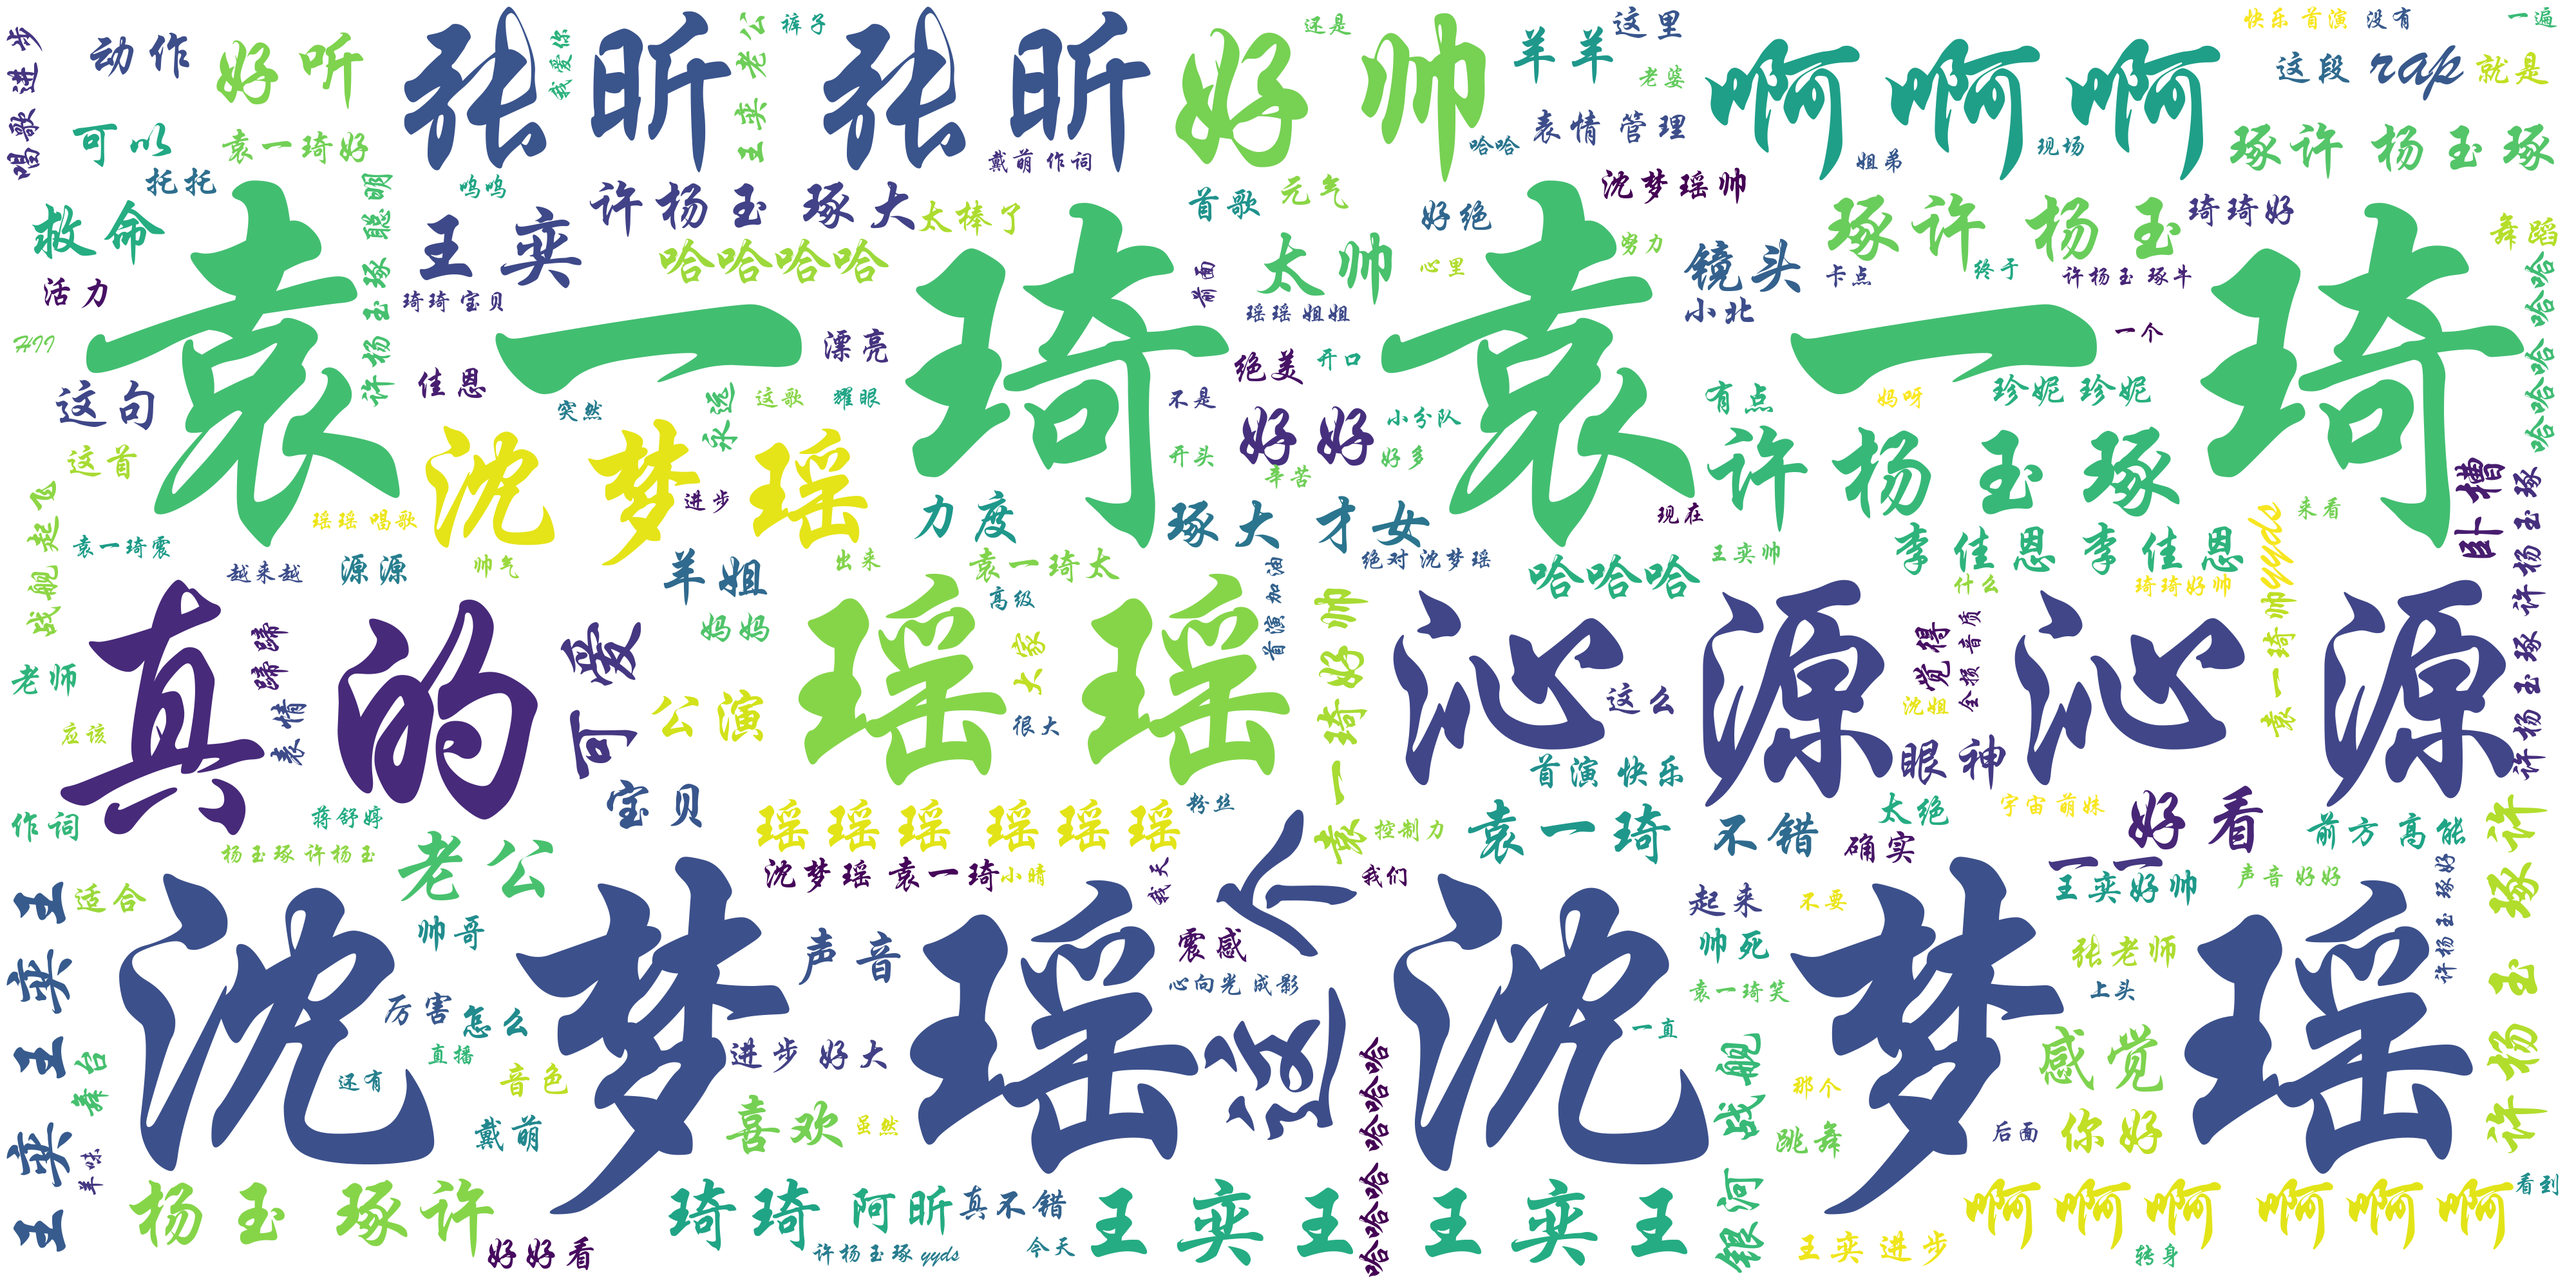
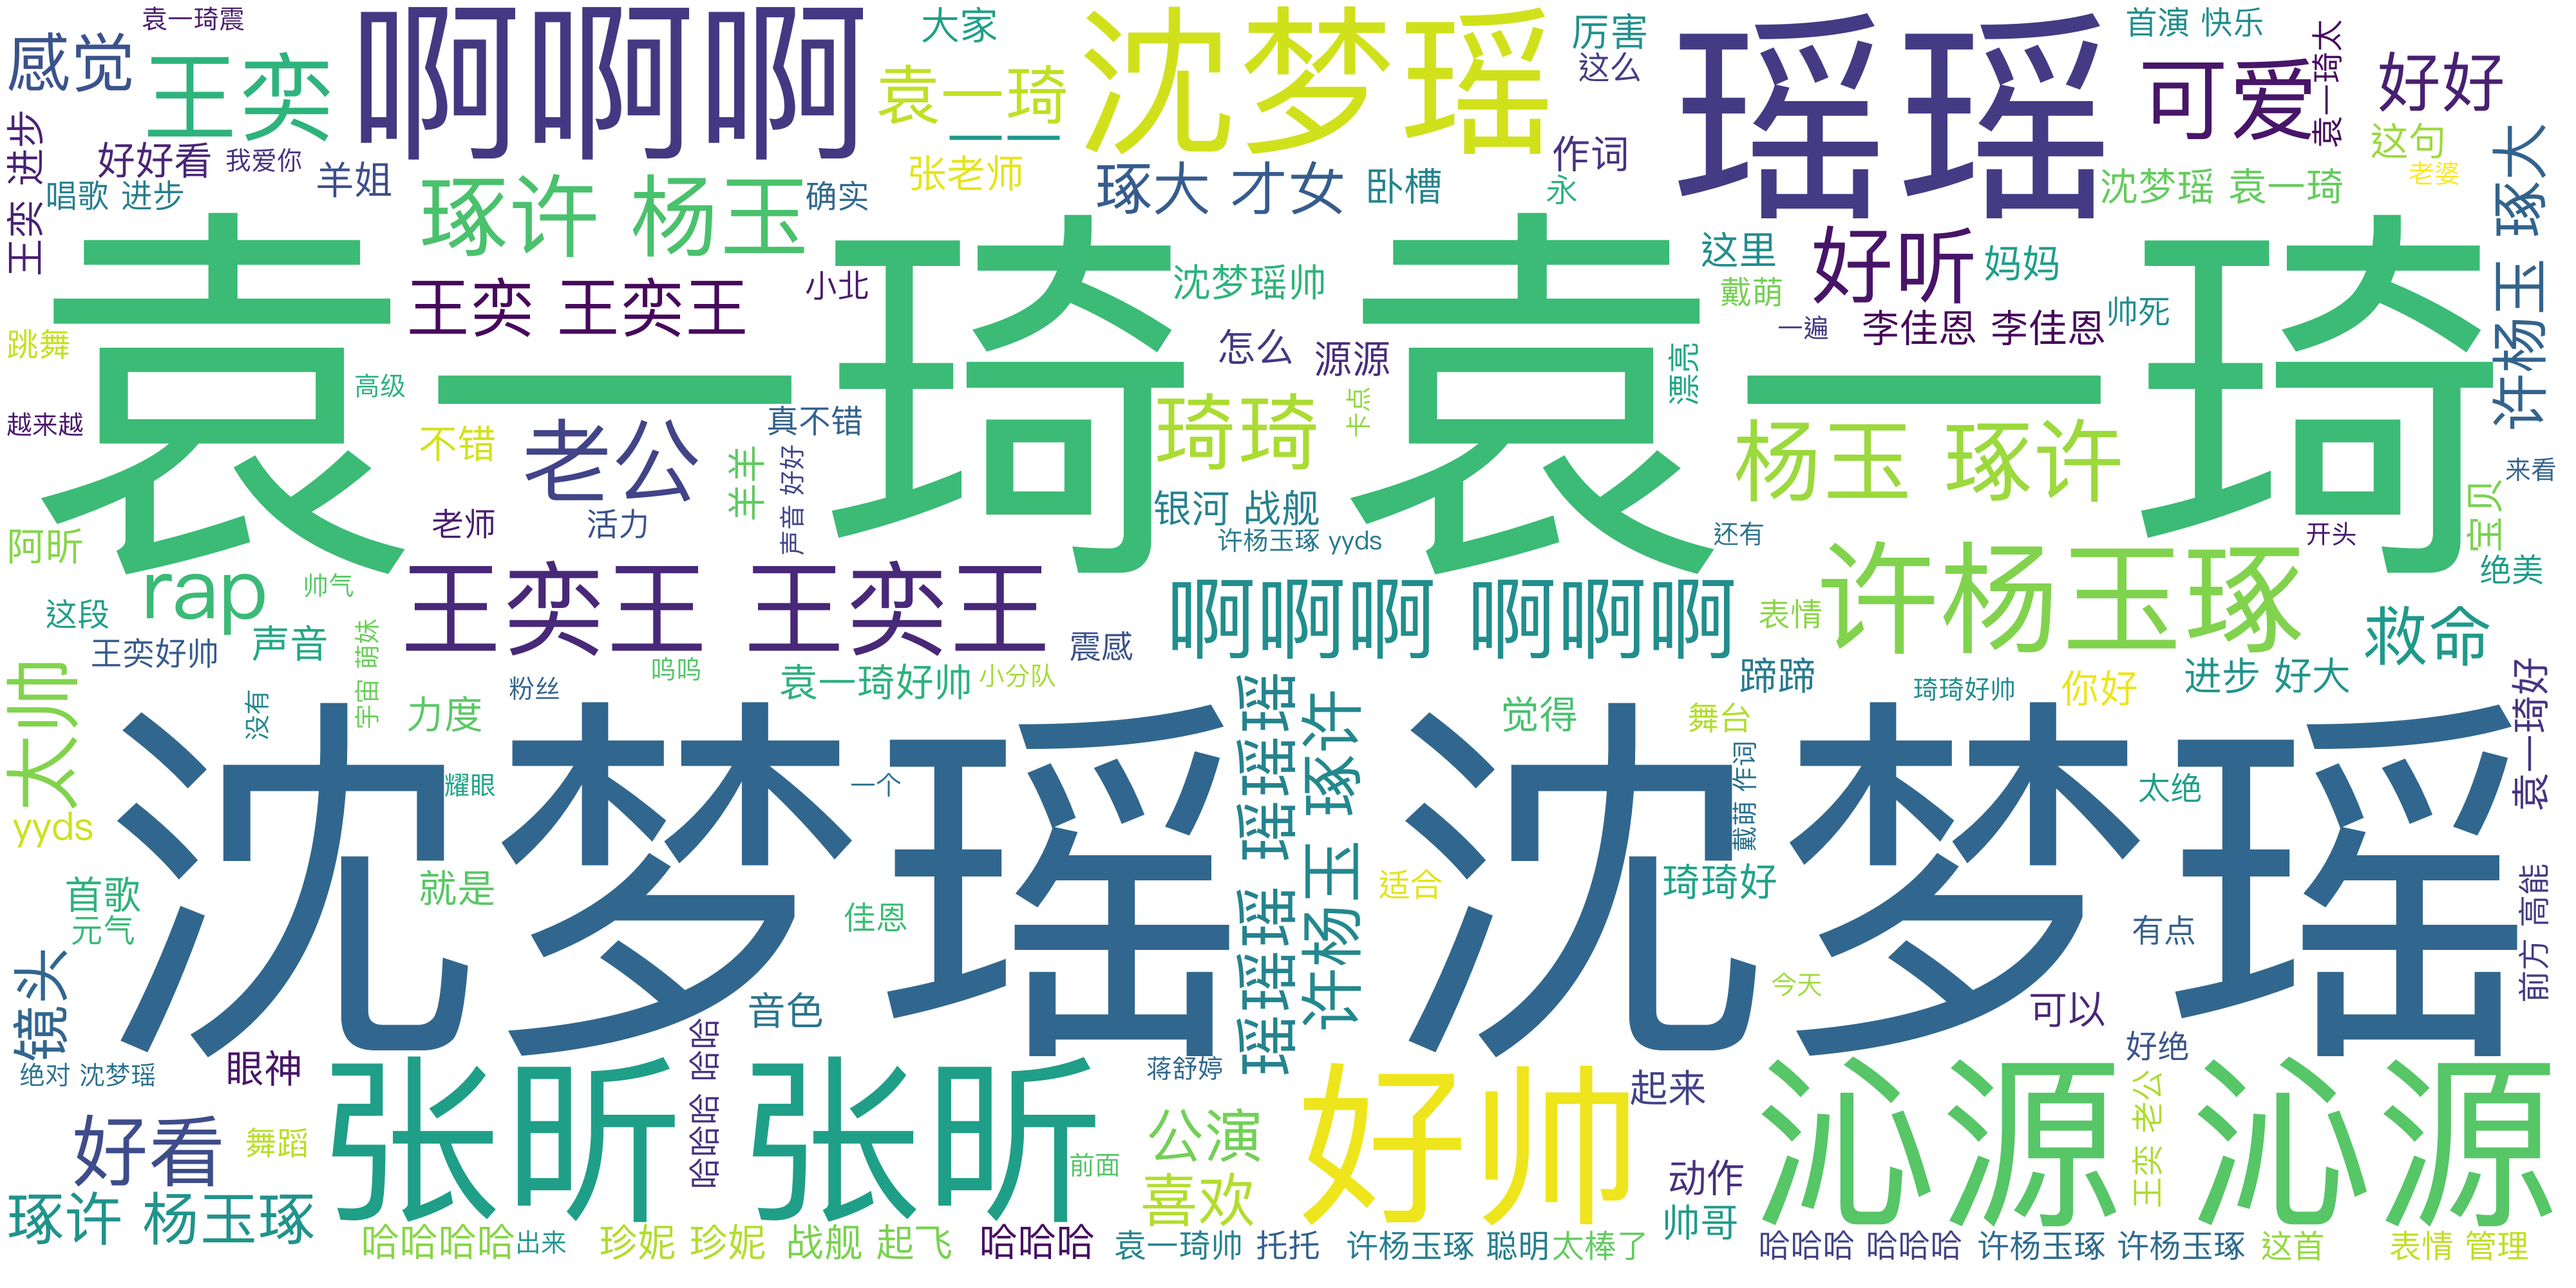
rerun in mac

diff --git a/data/ciyun.py b/data/ciyun.py
@@ -24,20 +24,17 @@ for seg in segs:  # 循环遍历每一个分词文本
         mytext_list.append(seg.replace(" ", ""))
 
 print(mytext_list)  # 打印过滤后的弹幕数据
+print('hello')
 cloud_text = ",".join(mytext_list)  # 连接列表里面的词语
 print(cloud_text)
 
 plt.figure()  # 图形窗口
-wc = WordCloud(
-    background_color="white",  # 背景颜色
-    max_words=200,  # 显示最大次数
-    font_path=r'C:/Windows/Fonts/STXINGKA.TTF',  # 字体
-    width=400,  # 宽
-    height=200,  # 高
-    scale=10).generate(cloud_text)  # 迭代生成词云
+# for win:font_path=r'C:/Windows/Fonts/STXINGKA.TTF'
+# for mac: font_path="/System/Library/fonts/PingFang.ttc"
+wc = WordCloud(background_color='white', max_words=200, width=400, height=200, scale=10,
+               font_path="/System/Library/fonts/PingFang.ttc").generate(cloud_text)
 wc.to_file("我的第一个词云.png")
 plt.imshow(wc, interpolation="bilinear")  # 插值为双线性,会使显示平滑更加平滑
 plt.axis("off")  # 坐标轴隐藏
 plt.show()
 print("成功!")
-
